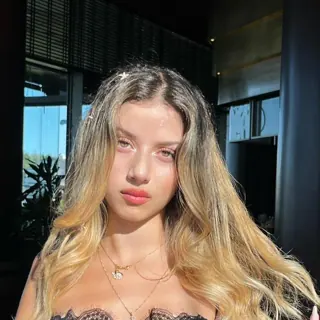
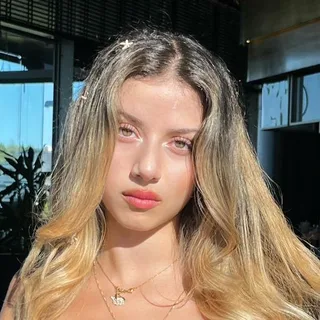
Replace team section with the event page's team
Sync names, roles, departments, photos and LinkedIn/GitHub links from
the event site. Department is now optional (the treasurer has none).

Claude-Session: https://claude.ai/code/session_01NoJAtetkvuPoibLrsEMxNj

diff --git a/content/site.ts b/content/site.ts
@@ -198,11 +198,10 @@ export const pastEvents: { date: Text; title: Text; description: Text; participa
 const role = {
   president: { tr: "Kulüp Başkanı", en: "President" },
   vicePresident: { tr: "Başkan Yardımcısı", en: "Vice President" },
-  events: { tr: "Etkinlik Koordinatörü", en: "Events Coordinator" },
+  software: { tr: "Yazılım Ekibi", en: "Software Team" },
+  secretary: { tr: "Sekreter", en: "Secretary" },
   treasurer: { tr: "Sayman", en: "Treasurer" },
-  software: { tr: "Yazılım Koordinatörü", en: "Software Coordinator" },
-  ai: { tr: "Yapay Zeka Koordinatörü", en: "AI Coordinator" },
-  social: { tr: "Sosyal Medya ve Tasarım Koordinatörü", en: "Social Media & Design Coordinator" },
+  social: { tr: "Sosyal Medya ve Etkinlik", en: "Social Media & Events" },
 };
 const dept = {
   computer: { tr: "Bilgisayar Mühendisliği", en: "Computer Engineering" },
@@ -212,22 +211,22 @@ const dept = {
 export const team: {
   name: string;
   role: Text;
-  department: Text;
+  department?: Text;
   photo?: string;
   linkedin?: string;
   github?: string;
 }[] = [
-  { name: "Merve Bayezit", role: role.president, department: dept.computer, photo: "/img/team/merve.webp", linkedin: "https://www.linkedin.com/in/merve-bayezit/" },
-  { name: "Sümeyye Yeğen", role: role.vicePresident, department: dept.computer, photo: "/img/team/sumeyye.webp", linkedin: "https://www.linkedin.com/in/s%C3%BCmeyye-ye%C4%9Fen" },
-  { name: "Muhammed Ege Atılgan", role: role.events, department: dept.computer, photo: "/img/team/ege.webp", linkedin: "https://www.linkedin.com/in/ege-at%C4%B1lgan-808840314/", github: "https://github.com/egeatilgan5757" },
-  { name: "Seba Defa", role: role.events, department: dept.computer, photo: "/img/team/seba.webp", linkedin: "https://www.linkedin.com/in/sabadefa/" },
-  { name: "Emirhan Ertaş", role: role.treasurer, department: dept.computer, photo: "/img/team/emirhan.webp", linkedin: "https://linkedin.com/in/emirertas" },
-  { name: "Aydın Melih Yanıbol", role: role.software, department: dept.computer, photo: "/img/team/melih.webp", github: "https://github.com/MelihAydinYanibol/" },
-  { name: "SeyyedBenyamin Valaei", role: role.ai, department: dept.computer, photo: "/img/team/benyamin.webp", linkedin: "https://www.linkedin.com/in/seyyedbenyaminvalaei/", github: "https://github.com/seyyedbenyaminvalaei" },
-  { name: "Umut Yıldız", role: role.software, department: dept.computer, photo: "/img/team/umut.webp", linkedin: "https://www.linkedin.com/in/umut-y%C4%B1ld%C4%B1z-670b79378" },
-  { name: "İrem Kaya", role: role.social, department: dept.software, photo: "/img/team/irem.webp", linkedin: "https://www.linkedin.com/in/irem-kaya-13324a394" },
-  { name: "Başak Atlı", role: role.social, department: dept.software },
-  { name: "Mehmet Karabulut", role: role.social, department: dept.computer, photo: "/img/team/mehmet.webp", linkedin: "https://www.linkedin.com/in/mehmet-karabulut-26543633b" },
+  { name: "Sümeyye Yeğen", role: role.president, department: dept.computer, photo: "/img/team/sumeyye.webp", linkedin: "https://www.linkedin.com/in/s%C3%BCmeyye-ye%C4%9Fen" },
+  { name: "İrem Kaya", role: role.vicePresident, department: dept.software, photo: "/img/team/irem.webp", linkedin: "https://www.linkedin.com/in/irem-kaya-13324a394" },
+  { name: "Aydın Melih Yanıbol", role: role.software, department: dept.computer, photo: "/img/team/melih.webp", linkedin: "https://www.linkedin.com/in/melih-ayd%C4%B1n-yan%C4%B1bol-47a101438/", github: "https://github.com/MelihAydinYanibol/" },
+  { name: "Umut Şimşek", role: role.software, department: dept.software, photo: "/img/team/umutsimsek.webp", linkedin: "https://www.linkedin.com/in/umutsimsek28/", github: "https://github.com/UmutSimsek22" },
+  { name: "Umut Yıldız", role: role.software, department: dept.computer, photo: "/img/team/umutyildiz.webp", linkedin: "https://www.linkedin.com/in/umut-y%C4%B1ld%C4%B1z-670b79378" },
+  { name: "Sümeyye Kaya", role: role.secretary, department: dept.computer, photo: "/img/team/sumeyyekaya.webp", linkedin: "https://www.linkedin.com/in/s%C3%BCmeyye-kaya-849663328/" },
+  { name: "Muhammed Emir Hayır", role: role.treasurer, photo: "/img/team/muhammedemir.webp" },
+  { name: "Mehmet Karabulut", role: role.social, department: dept.computer, photo: "/img/team/karabulut.webp", linkedin: "https://www.linkedin.com/in/mehmet-karabulut-26543633b" },
+  { name: "Başak Atlı", role: role.social, department: dept.software, photo: "/img/team/basak.webp" },
+  { name: "Elif Selay Yener", role: role.social, department: dept.computer, photo: "/img/team/elif.webp" },
+  { name: "İmran Özev", role: role.social, department: dept.computer, photo: "/img/team/imran.webp" },
 ];
 
 // Files in public/img/gallery as photoN-800.webp and photoN-1600.webp.

diff --git a/app/components/Site.tsx b/app/components/Site.tsx
@@ -237,7 +237,7 @@ export default function Site({ locale }: { locale: Locale }) {
                   )}
                   <h3 className="mt-4 font-bold">{m.name}</h3>
                   <p className="mt-1 text-sm text-pink-400">{m.role[locale]}</p>
-                  <p className="mt-0.5 text-xs text-white/50">{m.department[locale]}</p>
+                  {m.department && <p className="mt-0.5 text-xs text-white/50">{m.department[locale]}</p>}
                   {(m.linkedin || m.github) && (
                     <div className="mt-3 flex justify-center gap-2">
                       {m.linkedin && (
